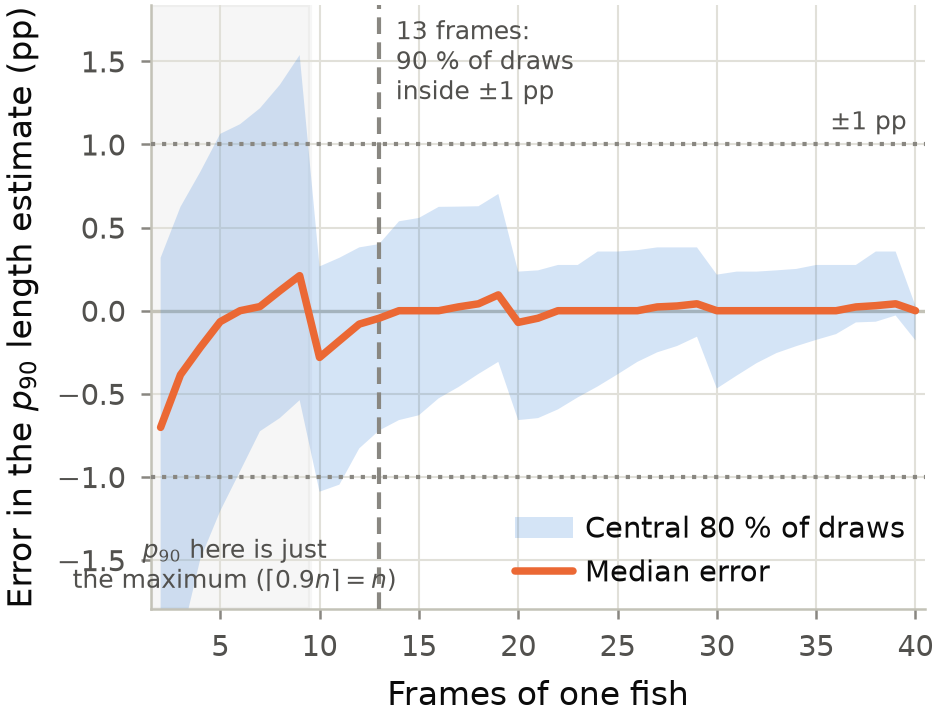
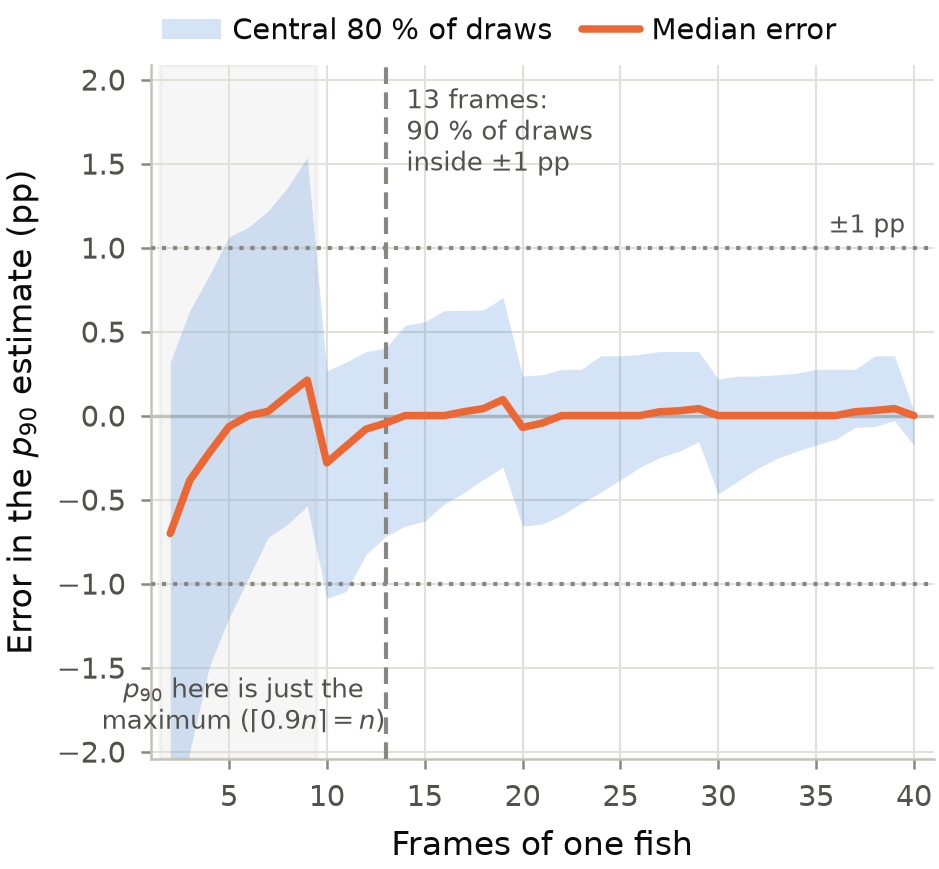
Figure 16: give it room
Layout only -- no number, statistic or claim changes.

  - legend moved above the axes, as Figure 4 already does it, so the panel
    interior belongs entirely to the data instead of sharing its lower right
    with a two-row key
  - height 2.6 -> 3.1 in; width stays at COL_WIDTH, since the figures are sized
    for the acmart column and must not be scaled in LaTeX
  - y padding 0.30 -> 0.55 pp and x padding 0.5 -> 1.0 frames, so the marks are
    not run up against the spines
  - both annotations up a little in size and off the axis edges, now that they
    are not competing with the legend for the same corner
  - y label shortened ("Error in the p90 estimate") -- the caption says which
    estimate, and the long version was crowding a tall axis

101 tests pass.

Changed region(s): [[0.0618, 0.0, 1.0, 1.0], [0.0, 0.0, 0.0618, 0.8567], [0.9574, 0.0612, 0.9883, 0.1224]]

diff --git a/fishsense_imwut/pubfig.py b/fishsense_imwut/pubfig.py
@@ -1494,7 +1494,7 @@ def fig_p90_vs_sample_size(
     rarefaction,
     tolerance: float = 1.0,
     min_frames: int | None = None,
-    figsize: tuple[float, float] = (COL_WIDTH, 2.6),
+    figsize: tuple[float, float] = (COL_WIDTH, 3.1),
 ) -> plt.Figure:
     """Error of a p90 length estimate against the number of frames behind it.
 
@@ -1528,9 +1528,11 @@ def fig_p90_vs_sample_size(
     _zero_line(ax, orientation="h")
 
     # ignore n = 2's long lower tail, which would otherwise spend a third of
-    # the panel on one sample size
-    top = max(hi.max(), tolerance) + 0.30
-    bottom = min(lo[ns >= 4].min(), -tolerance) - 0.30
+    # the panel on one sample size. The generous padding is deliberate: the
+    # legend sits above the axes so the interior is the data's, and both
+    # annotations need a margin they are not fighting the marks for.
+    top = max(hi.max(), tolerance) + 0.55
+    bottom = min(lo[ns >= 4].min(), -tolerance) - 0.55
 
     ax.axvspan(ns.min() - 0.5, 9.5, color=INK_MUTED, alpha=0.07, zorder=0)
     ax.fill_between(ns, lo, hi, color=SERIES_1, alpha=0.20, linewidth=0, zorder=2,
@@ -1548,18 +1550,21 @@ def fig_p90_vs_sample_size(
         ax.axvline(min_frames, color=INK_MUTED, linewidth=1.0,
                    linestyle=(0, (4, 2)), zorder=3)
         ax.annotate(f"{min_frames} frames:\n90 % of draws\ninside $\\pm${tolerance:g} pp",
-                    xy=(min_frames, top), xytext=(4, -3),
-                    textcoords="offset points", fontsize=6,
+                    xy=(min_frames, top), xytext=(5, -5),
+                    textcoords="offset points", fontsize=6.2,
                     color=INK_SECONDARY, ha="left", va="top", zorder=5)
 
-    ax.annotate(r"$p_{90}$ here is just" "\n" r"the maximum ($\lceil 0.9n \rceil = n$)",
-                xy=(5.75, bottom), xytext=(0, 3), textcoords="offset points",
-                fontsize=6, color=INK_SECONDARY, ha="center", va="bottom", zorder=5)
+    ax.annotate(r"$p_{90}$ here is just the" "\n" r"maximum ($\lceil 0.9n \rceil = n$)",
+                xy=(5.75, bottom), xytext=(0, 5), textcoords="offset points",
+                fontsize=6.2, color=INK_SECONDARY, ha="center", va="bottom", zorder=5)
 
-    ax.set_xlim(ns.min() - 0.5, ns.max() + 0.5)
+    ax.set_xlim(ns.min() - 1.0, ns.max() + 1.0)
     ax.set_ylim(bottom, top)
     ax.set_xlabel("Frames of one fish")
-    ax.set_ylabel("Error in the $p_{90}$ length estimate (pp)")
-    ax.legend(loc="lower right", handletextpad=0.4, borderaxespad=0.3)
+    ax.set_ylabel("Error in the $p_{90}$ estimate (pp)")
+    ax.margins(y=0.05)
+    # above the axes, as Figure 4 does it, so the panel interior is all data
+    ax.legend(loc="lower left", bbox_to_anchor=(0.0, 1.01), ncols=2,
+              handletextpad=0.4, columnspacing=1.0, borderaxespad=0.0)
     fig.tight_layout()
     return fig
